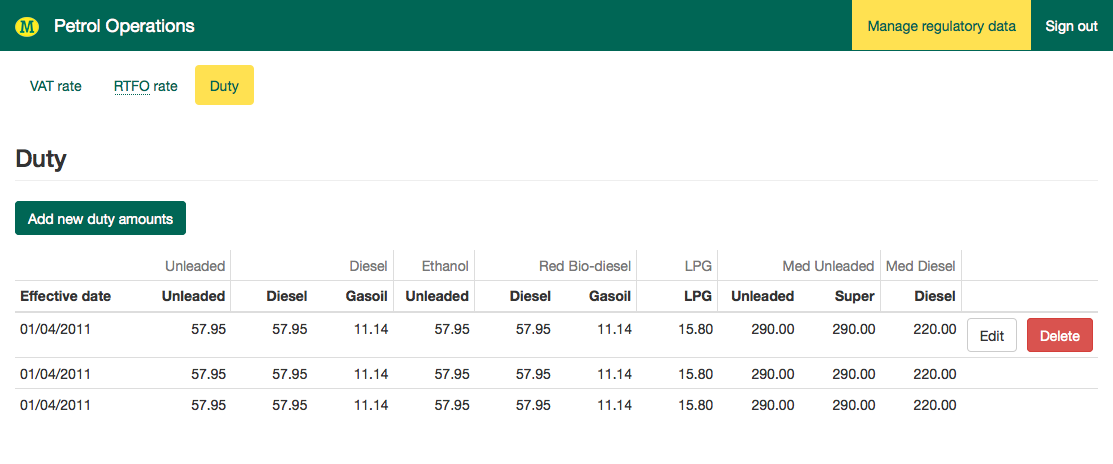
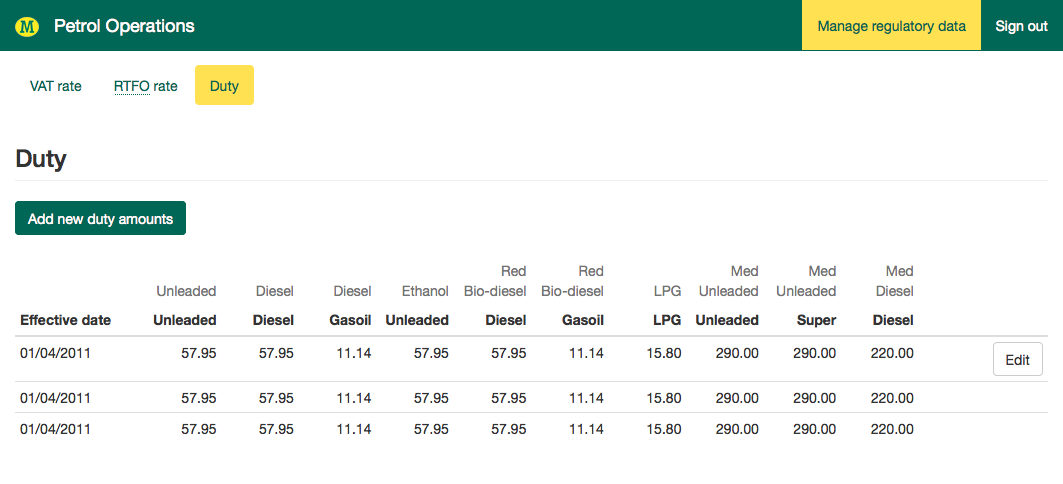
vat, rtfo

diff --git a/regdata-duty.html b/regdata-duty.html
@@ -62,31 +62,31 @@
 						</div>
 					</form>	
 																				
-					<div class="table-responsive">
-						<table class="table table-condensed duty-table">
-							<thead>
-								<tr>
-									<th>Effective date</th>
-									<th title="Retail product name"><span class="help-block" title="Feedstock">Unleaded</span> Unleaded</th>
-									<th title="Retail product name"><span class="help-block" title="Feedstock">Diesel</span> Diesel</th>
-									<th title="Retail product name"><span class="help-block" title="Feedstock">Diesel</span> Gasoil</th>
-									<th title="Retail product name"><span class="help-block" title="Feedstock">Ethanol</span> Unleaded</th>
-									<th title="Retail product name"><span class="help-block" title="Feedstock">Red Bio-diesel</span> Diesel</th>
-									<th title="Retail product name"><span class="help-block" title="Feedstock">Red Bio-diesel</span> Gasoil</th>
-									<th title="Retail product name"><span class="help-block" title="Feedstock">LPG</span> LPG</th>
-									<th title="Retail product name"><span class="help-block" title="Feedstock">Med Unleaded</span> Unleaded</th>
-									<th title="Retail product name"><span class="help-block" title="Feedstock">Med Unleaded</span> Super</th>
-									<th title="Retail product name"><span class="help-block" title="Feedstock">Med Diesel</span> Diesel</th>
-									<th><!-- empty cell --></th>
-								</tr>	
-							</thead>
-							<tbody>
-								<tr><td>01/04/2011</td><td title="Unit price is pence-per-litre (ppl)">57.95</td><td title="Unit price is pence-per-litre (ppl)">57.95</td><td title="Unit price is pence-per-litre (ppl)">11.14</td><td title="Unit price is pence-per-litre (ppl)">57.95</td><td title="Unit price is pence-per-litre (ppl)">57.95</td><td title="Unit price is pence-per-litre (ppl)">11.14</td><td title="Unit price is pence-per-litre (ppl)">15.80</td><td title="Unit price is pounds-per-ton (&pound;/t)">290.00</td><td title="Unit price is pounds-per-ton (&pound;/t)">290.00</td><td title="Unit price is pounds-per-ton (&pound;/t)">220.00</td><td><a href="regdata-duty-edit.html" class="btn btn-default">Edit</a></td></tr>
-								<tr><td>01/04/2011</td><td title="Unit price is pence-per-litre (ppl)">57.95</td><td title="Unit price is pence-per-litre (ppl)">57.95</td><td title="Unit price is pence-per-litre (ppl)">11.14</td><td title="Unit price is pence-per-litre (ppl)">57.95</td><td title="Unit price is pence-per-litre (ppl)">57.95</td><td title="Unit price is pence-per-litre (ppl)">11.14</td><td title="Unit price is pence-per-litre (ppl)">15.80</td><td title="Unit price is pounds-per-ton (&pound;/t)">290.00</td><td title="Unit price is pounds-per-ton (&pound;/t)">290.00</td><td title="Unit price is pounds-per-ton (&pound;/t)">220.00</td><td></td></tr>
-								<tr><td>01/04/2011</td><td title="Unit price is pence-per-litre (ppl)">57.95</td><td title="Unit price is pence-per-litre (ppl)">57.95</td><td title="Unit price is pence-per-litre (ppl)">11.14</td><td title="Unit price is pence-per-litre (ppl)">57.95</td><td title="Unit price is pence-per-litre (ppl)">57.95</td><td title="Unit price is pence-per-litre (ppl)">11.14</td><td title="Unit price is pence-per-litre (ppl)">15.80</td><td title="Unit price is pounds-per-ton (&pound;/t)">290.00</td><td title="Unit price is pounds-per-ton (&pound;/t)">290.00</td><td title="Unit price is pounds-per-ton (&pound;/t)">220.00</td><td></td></tr>
-							</tbody>
-						</table>	
-					</div>						
+<div class="table-responsive">
+	<table class="table table-condensed duty-table">
+		<thead>
+			<tr>
+				<th>Effective date</th>
+				<th title="Retail product name"><span class="help-block" title="Feedstock">Unleaded</span> Unleaded</th>
+				<th title="Retail product name"><span class="help-block" title="Feedstock">Diesel</span> Diesel</th>
+				<th title="Retail product name"><span class="help-block" title="Feedstock">Diesel</span> Gasoil</th>
+				<th title="Retail product name"><span class="help-block" title="Feedstock">Ethanol</span> Unleaded</th>
+				<th title="Retail product name"><span class="help-block" title="Feedstock">Red Bio-diesel</span> Diesel</th>
+				<th title="Retail product name"><span class="help-block" title="Feedstock">Red Bio-diesel</span> Gasoil</th>
+				<th title="Retail product name"><span class="help-block" title="Feedstock">LPG</span> LPG</th>
+				<th title="Retail product name"><span class="help-block" title="Feedstock">Med Unleaded</span> Unleaded</th>
+				<th title="Retail product name"><span class="help-block" title="Feedstock">Med Unleaded</span> Super</th>
+				<th title="Retail product name"><span class="help-block" title="Feedstock">Med Diesel</span> Diesel</th>
+				<th><!-- empty cell --></th>
+			</tr>	
+		</thead>
+		<tbody>
+			<tr><td>01/04/2011</td><td title="Unit price is pence-per-litre (ppl)">57.95</td><td title="Unit price is pence-per-litre (ppl)">57.95</td><td title="Unit price is pence-per-litre (ppl)">11.14</td><td title="Unit price is pence-per-litre (ppl)">57.95</td><td title="Unit price is pence-per-litre (ppl)">57.95</td><td title="Unit price is pence-per-litre (ppl)">11.14</td><td title="Unit price is pence-per-litre (ppl)">15.80</td><td title="Unit price is pounds-per-ton (&pound;/t)">290.00</td><td title="Unit price is pounds-per-ton (&pound;/t)">290.00</td><td title="Unit price is pounds-per-ton (&pound;/t)">220.00</td><td><a href="regdata-duty-edit.html" class="btn btn-default">Edit</a></td></tr>
+			<tr><td>01/04/2011</td><td title="Unit price is pence-per-litre (ppl)">57.95</td><td title="Unit price is pence-per-litre (ppl)">57.95</td><td title="Unit price is pence-per-litre (ppl)">11.14</td><td title="Unit price is pence-per-litre (ppl)">57.95</td><td title="Unit price is pence-per-litre (ppl)">57.95</td><td title="Unit price is pence-per-litre (ppl)">11.14</td><td title="Unit price is pence-per-litre (ppl)">15.80</td><td title="Unit price is pounds-per-ton (&pound;/t)">290.00</td><td title="Unit price is pounds-per-ton (&pound;/t)">290.00</td><td title="Unit price is pounds-per-ton (&pound;/t)">220.00</td><td></td></tr>
+			<tr><td>01/04/2011</td><td title="Unit price is pence-per-litre (ppl)">57.95</td><td title="Unit price is pence-per-litre (ppl)">57.95</td><td title="Unit price is pence-per-litre (ppl)">11.14</td><td title="Unit price is pence-per-litre (ppl)">57.95</td><td title="Unit price is pence-per-litre (ppl)">57.95</td><td title="Unit price is pence-per-litre (ppl)">11.14</td><td title="Unit price is pence-per-litre (ppl)">15.80</td><td title="Unit price is pounds-per-ton (&pound;/t)">290.00</td><td title="Unit price is pounds-per-ton (&pound;/t)">290.00</td><td title="Unit price is pounds-per-ton (&pound;/t)">220.00</td><td></td></tr>
+		</tbody>
+	</table>	
+</div>						
 				</div>
 			</div>	
 		</div>		

diff --git a/regdata-rtfo-saved.html b/regdata-rtfo-saved.html
@@ -66,19 +66,19 @@
 					</form>				
 					<div class="row">
 					<div class="col-xs-12 col-md-6 col-lg-4">							
-					<table class="table table-condensed">
-						<thead>
-							<tr><th>Effective date</th><th>RTFO rate</th><th colspan="2"><!-- empty cell --></th></tr>
-						</thead>
-						<tbody>
-							<tr><td>15/04/2014</td><td>5.00%</td><td><a href="regdata-rtfo-edit.html" class="btn btn-default btn-sm">Edit</a></td><td><a href="regdata-rtfo-delete.html" class="btn btn-danger btn-sm">Delete</a></td></tr>
-							<tr><td>15/04/2013</td><td>5.00%</td><td></td><td></td></tr>
-							<tr><td>15/04/2012</td><td>4.50%</td><td></td><td></td></tr>
-							<tr><td>15/04/2011</td><td>4.00%</td><td></td><td></td></tr>
-							<tr><td>01/04/2010</td><td>3.50%</td><td></td><td></td></tr>
-							<tr><td>01/01/2000</td><td>0.00%</td><td></td><td></td></tr>
-						</tbody>
-					</table>
+						<table class="table table-condensed">
+							<thead>
+								<tr><th>Effective date</th><th>RTFO rate</th><th><!-- empty cell --></th></tr>
+							</thead>
+							<tbody>
+								<tr><td>15/04/2014</td><td>5.00%</td><td><a href="regdata-rtfo-edit.html" class="btn btn-default btn-sm">Edit</a></td></tr>
+								<tr><td>15/04/2013</td><td>5.00%</td><td><!-- empty cell --></td></tr>
+								<tr><td>15/04/2012</td><td>4.50%</td><td><!-- empty cell --></td></tr>
+								<tr><td>15/04/2011</td><td>4.00%</td><td><!-- empty cell --></td></tr>
+								<tr><td>01/04/2010</td><td>3.50%</td><td><!-- empty cell --></td></tr>
+								<tr><td>01/01/2000</td><td>0.00%</td><td><!-- empty cell --></td></tr>
+							</tbody>
+						</table>
 					</div>	
 					</div>
 					</form>					

diff --git a/regdata-rtfo.html b/regdata-rtfo.html
@@ -66,15 +66,15 @@
 							<div class="col-xs-12 col-md-6 col-lg-4">							
 								<table class="table table-condensed">
 									<thead>
-										<tr><th>Effective date</th><th>RTFO rate</th><th colspan="2"><!-- empty cell --></th></tr>
+										<tr><th>Effective date</th><th>RTFO rate</th><th><!-- empty cell --></th></tr>
 									</thead>
 									<tbody>
-										<tr><td>15/04/2014</td><td>5.00%</td><td><a href="regdata-rtfo-edit.html" class="btn btn-default btn-sm">Edit</a></td><td><a href="regdata-rtfo-delete.html" class="btn btn-danger btn-sm">Delete</a></td></tr>
-										<tr><td>15/04/2013</td><td>5.00%</td><td></td><td></td></tr>
-										<tr><td>15/04/2012</td><td>4.50%</td><td></td><td></td></tr>
-										<tr><td>15/04/2011</td><td>4.00%</td><td></td><td></td></tr>
-										<tr><td>01/04/2010</td><td>3.50%</td><td></td><td></td></tr>
-										<tr><td>01/01/2000</td><td>0.00%</td><td></td><td></td></tr>
+										<tr><td>15/04/2014</td><td>5.00%</td><td><a href="regdata-rtfo-edit.html" class="btn btn-default btn-sm">Edit</a></td></tr>
+										<tr><td>15/04/2013</td><td>5.00%</td><td><!-- empty cell --></td></tr>
+										<tr><td>15/04/2012</td><td>4.50%</td><td><!-- empty cell --></td></tr>
+										<tr><td>15/04/2011</td><td>4.00%</td><td><!-- empty cell --></td></tr>
+										<tr><td>01/04/2010</td><td>3.50%</td><td><!-- empty cell --></td></tr>
+										<tr><td>01/01/2000</td><td>0.00%</td><td><!-- empty cell --></td></tr>
 									</tbody>
 								</table>
 							</div>	

diff --git a/regdata-vat-saved.html b/regdata-vat-saved.html
@@ -69,15 +69,15 @@
 						<div class="col-xs-12 col-md-6 col-lg-4">							
 							<table class="table table-condensed">
 								<thead>
-									<tr><th>Effective date</th><th>VAT rate</th><th colspan="2"><!-- empty cell --></th></tr>
+									<tr><th>Effective date</th><th>VAT rate</th><th><!-- empty cell --></th></tr>
 								</thead>
 								<tbody>
-									<tr><td>01/01/2015</td><td>17.5%</td><td><a href="regdata-vat-edit.html" class="btn btn-default">Edit</a></td><td><a href="regdata-vat-delete.html" class="btn btn-danger">Delete</a></td></tr>
-									<tr><td>04/01/2011</td><td>20%</td><td></td><td></td></tr>
-									<tr><td>04/01/2011</td><td>20%</td><td></td><td></td></tr>
-									<tr><td>01/01/2010</td><td>17.5%</td><td></td><td></td></tr>
-									<tr><td>01/01/2009</td><td>15%</td><td></td><td></td></tr>
-									<tr><td>01/01/2000</td><td>17.5%</td><td></td><td></td></tr>							
+									<tr><td>01/01/2015</td><td>17.5%</td><td><a href="regdata-vat-edit.html" class="btn btn-default">Edit</a></td></tr>
+									<tr><td>04/01/2011</td><td>20%</td><td><!-- empty cell --></td></tr>
+									<tr><td>04/01/2011</td><td>20%</td><td><!-- empty cell --></td></tr>
+									<tr><td>01/01/2010</td><td>17.5%</td><td><!-- empty cell --></td></tr>
+									<tr><td>01/01/2009</td><td>15%</td><td><!-- empty cell --></td></tr>
+									<tr><td>01/01/2000</td><td>17.5%</td><td><!-- empty cell --></td></tr>							
 								</tbody>
 							</table>
 						</div>

diff --git a/regdata-vat.html b/regdata-vat.html
@@ -66,15 +66,15 @@
 						<div class="col-xs-12 col-md-6 col-lg-4">							
 							<table class="table table-condensed">
 								<thead>
-									<tr><th>Effective date</th><th>VAT rate</th><th colspan="2"><!-- empty cell --></th></tr>
+									<tr><th>Effective date</th><th>VAT rate</th><th><!-- empty cell --></th></tr>
 								</thead>
 								<tbody>
-									<tr><td>01/01/2015</td><td>17.5%</td><td><a href="regdata-vat-edit.html" class="btn btn-default">Edit</a></td><td><a href="regdata-vat-delete.html" class="btn btn-danger">Delete</a></td></tr>
-									<tr><td>04/01/2011</td><td>20%</td><td></td><td></td></tr>
-									<tr><td>04/01/2011</td><td>20%</td><td></td><td></td></tr>
-									<tr><td>01/01/2010</td><td>17.5%</td><td></td><td></td></tr>
-									<tr><td>01/01/2009</td><td>15%</td><td></td><td></td></tr>
-									<tr><td>01/01/2000</td><td>17.5%</td><td></td><td></td></tr>							
+									<tr><td>01/01/2015</td><td>17.5%</td><td><a href="regdata-vat-edit.html" class="btn btn-default">Edit</a></td></tr>
+									<tr><td>04/01/2011</td><td>20%</td><td><!-- empty cell --></td></tr>
+									<tr><td>04/01/2011</td><td>20%</td><td><!-- empty cell --></td></tr>
+									<tr><td>01/01/2010</td><td>17.5%</td><td><!-- empty cell --></td></tr>
+									<tr><td>01/01/2009</td><td>15%</td><td><!-- empty cell --></td></tr>
+									<tr><td>01/01/2000</td><td>17.5%</td><td><!-- empty cell --></td></tr>							
 								</tbody>
 							</table>
 						</div>

diff --git a/regdata-rtfo-delete.html b/regdata-rtfo-delete.html
@@ -69,15 +69,14 @@
 					<div class="col-xs-12 col-md-6 col-lg-4">							
 					<table class="table table-condensed">
 						<thead>
-							<tr><th>Effective date</th><th>RTFO rate</th><th colspan="2"><!-- empty cell --></th></tr>
+							<tr><th>Effective date</th><th>RTFO rate</th><th><!-- empty cell --></th></tr>
 						</thead>
 						<tbody>
-							<tr><td>15/04/2014</td><td>5.00%</td><td><a href="regdata-rtfo-edit.html" class="btn btn-default btn-sm">Edit</a></td><td><a href="regdata-rtfo-delete.html" class="btn btn-danger btn-sm">Delete</a></td></tr>
-							<tr><td>15/04/2013</td><td>5.00%</td><td></td><td></td></tr>
-							<tr><td>15/04/2012</td><td>4.50%</td><td></td><td></td></tr>
-							<tr><td>15/04/2011</td><td>4.00%</td><td></td><td></td></tr>
-							<tr><td>01/04/2010</td><td>3.50%</td><td></td><td></td></tr>
-							<tr><td>01/01/2000</td><td>0.00%</td><td></td><td></td></tr>
+							<tr><td>15/04/2013</td><td>5.00%</td><td><!-- empty cell --></td></tr>
+							<tr><td>15/04/2012</td><td>4.50%</td><td><!-- empty cell --></td></tr>
+							<tr><td>15/04/2011</td><td>4.00%</td><td><!-- empty cell --></td></tr>
+							<tr><td>01/04/2010</td><td>3.50%</td><td><!-- empty cell --></td></tr>
+							<tr><td>01/01/2000</td><td>0.00%</td><td><!-- empty cell --></td></tr>
 						</tbody>
 					</table>
 					</div>	

diff --git a/regdata-vat-delete.html b/regdata-vat-delete.html
@@ -69,14 +69,14 @@
 						<div class="col-xs-12 col-md-6 col-lg-4">							
 							<table class="table table-condensed">
 								<thead>
-									<tr><th>Effective date</th><th>VAT rate</th><th colspan="2"><!-- empty cell --></th></tr>
+									<tr><th>Effective date</th><th>VAT rate</th><th><!-- empty cell --></th></tr>
 								</thead>
 								<tbody>
-									<tr><td>04/01/2011</td><td>20%</td><td></td><td></td></tr>
-									<tr><td>04/01/2011</td><td>20%</td><td></td><td></td></tr>
-									<tr><td>01/01/2010</td><td>17.5%</td><td></td><td></td></tr>
-									<tr><td>01/01/2009</td><td>15%</td><td></td><td></td></tr>
-									<tr><td>01/01/2000</td><td>17.5%</td><td></td><td></td></tr>							
+									<tr><td>04/01/2011</td><td>20%</td><td><!-- empty cell --></td></tr>
+									<tr><td>04/01/2011</td><td>20%</td><td><!-- empty cell --></td></tr>
+									<tr><td>01/01/2010</td><td>17.5%</td><td><!-- empty cell --></td></tr>
+									<tr><td>01/01/2009</td><td>15%</td><td><!-- empty cell --></td></tr>
+									<tr><td>01/01/2000</td><td>17.5%</td><td><!-- empty cell --></td></tr>							
 								</tbody>
 							</table>
 						</div>

diff --git a/regdata-vat-edit.html b/regdata-vat-edit.html
@@ -71,6 +71,19 @@
 						  </div>
 					  </div>
 					  <a class="btn btn-primary" href="regdata-vat-saved.html">Save VAT rate</a>
+						<a class="text-danger pull-right" href="#" data-toggle="modal" data-target="#myModal"><span class="glyphicon glyphicon-remove"></span> Delete VAT rate</a>
+						<!-- delete modal -->
+						<div class="modal fade" id="myModal" tabindex="-1" role="dialog" aria-labelledby="myModalLabel" aria-hidden="true">
+						  <div class="modal-dialog modal-sm">
+						    <div class="modal-content">
+						      <div class="modal-body">
+							    <a class="btn btn-danger btn-block" href="regdata-vat-delete.html">Delete VAT rate</a>
+						        <button type="button" class="btn btn-default btn-block" data-dismiss="modal" aria-label="Close"><span aria-hidden="true">Cancel</span></button>
+						      </div>
+						    </div>
+						  </div>
+						</div>
+						<!-- /end delete modal -->
 					</form>													
 				</div>
 			</div>	

diff --git a/regdata-rtfo-edit.html b/regdata-rtfo-edit.html
@@ -73,6 +73,19 @@
 
 					  </div>
 					  <a class="btn btn-primary" href="regdata-rtfo-saved.html">Save RTFO rate</a>
+						<a class="text-danger pull-right" href="#" data-toggle="modal" data-target="#myModal"><span class="glyphicon glyphicon-remove"></span> Delete RTFO rate</a>
+						<!-- delete modal -->
+						<div class="modal fade" id="myModal" tabindex="-1" role="dialog" aria-labelledby="myModalLabel" aria-hidden="true">
+						  <div class="modal-dialog modal-sm">
+						    <div class="modal-content">
+						      <div class="modal-body">
+							    <a class="btn btn-danger btn-block" href="regdata-rtfo-delete.html">Delete RTFO rate</a>
+						        <button type="button" class="btn btn-default btn-block" data-dismiss="modal" aria-label="Close"><span aria-hidden="true">Cancel</span></button>
+						      </div>
+						    </div>
+						  </div>
+						</div>
+						<!-- /end delete modal -->
 					</form>													
 				</div>
 			</div>	

diff --git a/regdata-duty-edit.html b/regdata-duty-edit.html
@@ -118,6 +118,7 @@
 						</div>	
   						<a class="btn btn-primary" href="regdata-duty-saved.html">Save duty amounts</a>	
   						<a class="text-danger pull-right" href="#" data-toggle="modal" data-target="#myModal"><span class="glyphicon glyphicon-remove"></span> Delete duty amounts</a>
+						<!-- delete modal -->
 						<div class="modal fade" id="myModal" tabindex="-1" role="dialog" aria-labelledby="myModalLabel" aria-hidden="true">
 						  <div class="modal-dialog modal-sm">
 						    <div class="modal-content">
@@ -128,6 +129,7 @@
 						    </div>
 						  </div>
 						</div>
+						<!-- /end delete modal -->
 					</form>											
 				</div>
 			</div>	
